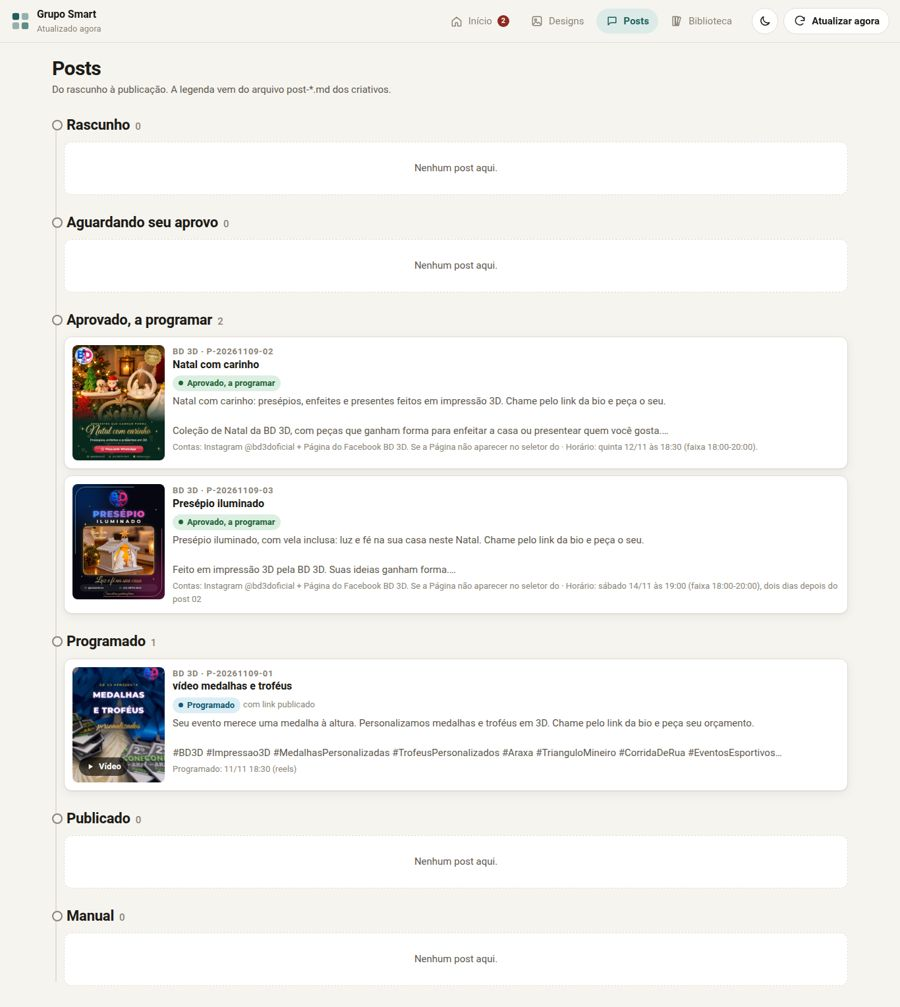
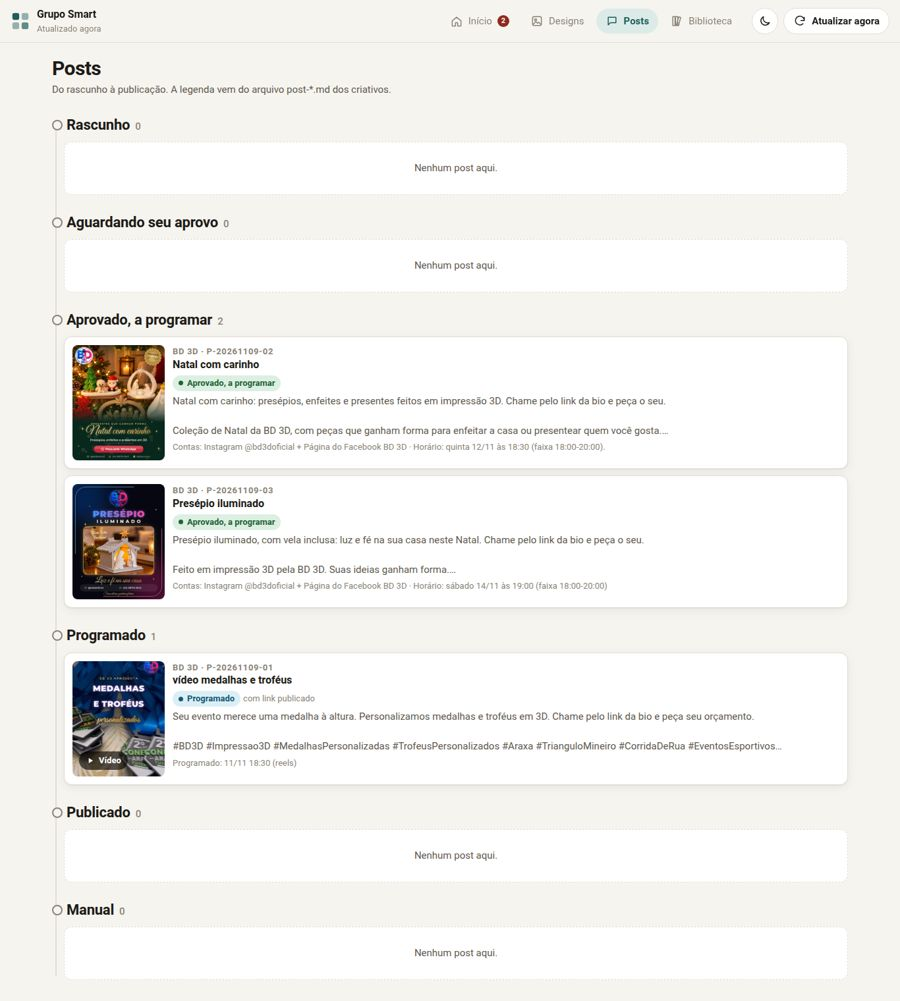
Posts: contas e horário sem corte no meio da frase

diff --git a/src/App.html b/src/App.html
@@ -182,13 +182,18 @@
     ligarImagens($('#aba-designs'));
   }
 
+  /** Primeira frase, sem cortar palavra no meio. */
+  function curto(t) {
+    var f = String(t || '').split(/\.\s|,\s(?=[a-zà-ú]+\s)/)[0].replace(/\s*\([^)]*$/, '').trim();
+    return f.length > 80 ? f.slice(0, f.lastIndexOf(' ', 80)) + '…' : f;
+  }
   function cartaoPost(p) {
     var publicado = p.marcas.filter(function (m) { return m.link; })[0];
     var prog = p.marcas.filter(function (m) { return m.tipo === 'programado'; })[0];
     var info = [];
-    if (p.contas) info.push('Contas: ' + p.contas.replace(/\s*\(.*?\)/g, '').slice(0, 90));
+    if (p.contas) info.push('Contas: ' + curto(p.contas.replace(/\s*\(.*?\)/g, '')));
     if (prog) info.push('Programado: ' + dataBr(prog.quando) + (prog.formato ? ' (' + prog.formato + ')' : ''));
-    else if (p.horario) info.push('Horário: ' + p.horario.slice(0, 70));
+    else if (p.horario) info.push('Horário: ' + curto(p.horario));
     return '<button class="post" data-post="' + esc(p.id) + '">' + miniatura(p.arte_fileId, { video: p.video, tam: 400, alt: p.titulo }) +
       '<div><div class="cartao-empresa">' + esc(p.empresa) + ' · ' + esc(p.id) + '</div><div class="cartao-titulo">' + esc(p.titulo) + '</div>' +
       '<div style="margin-top:4px">' + selo(p.estado, ROTULO_POSTS[p.estado]) + (publicado ? ' <span class="post-info">com link publicado</span>' : '') + '</div>' +

diff --git a/README.md b/README.md
@@ -68,7 +68,7 @@ python3 -m http.server 8765 -d dev/out
 
 O projeto já existe no seu Drive: pasta `painel-grupo-smart`, arquivo **Painel Grupo Smart**.
 
-1. Abra o projeto no [editor do Apps Script](https://script.google.com/d/1OG99ABrvByyYcEikqOdE9ZK0YBTtbCXR-d0ipruWwp6mLwsOmff7kpsm/edit) (ou, no Drive, clique duas vezes em **Painel Grupo Smart**).
+1. Abra o projeto no [editor do Apps Script](https://script.google.com/d/14gDaS5OQIBiMtWAeaCm5Nd5OVcCmuuqXMaguN1vUrgMpCBLsqINCe2xu/edit) (ou, no Drive, clique duas vezes em **Painel Grupo Smart**).
 2. Clique em **Implantar** > **Nova implantação**.
 3. Na engrenagem, escolha **App da Web**.
 4. **Executar como:** Eu. **Quem pode acessar:** Somente eu.
